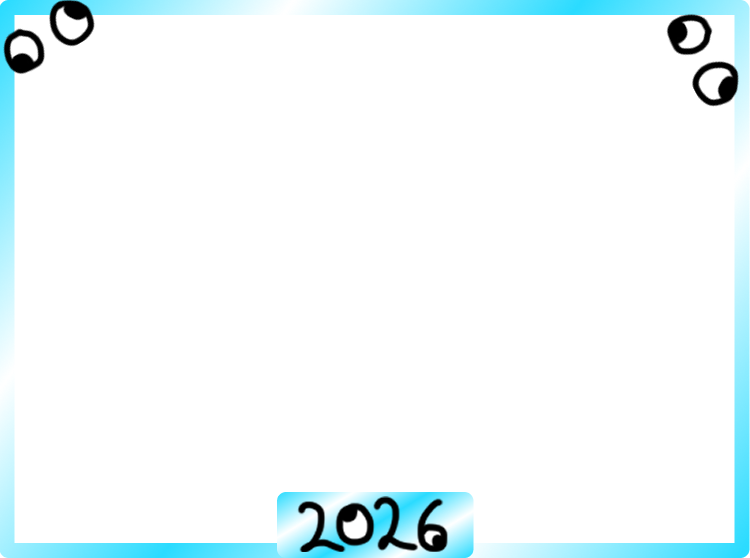
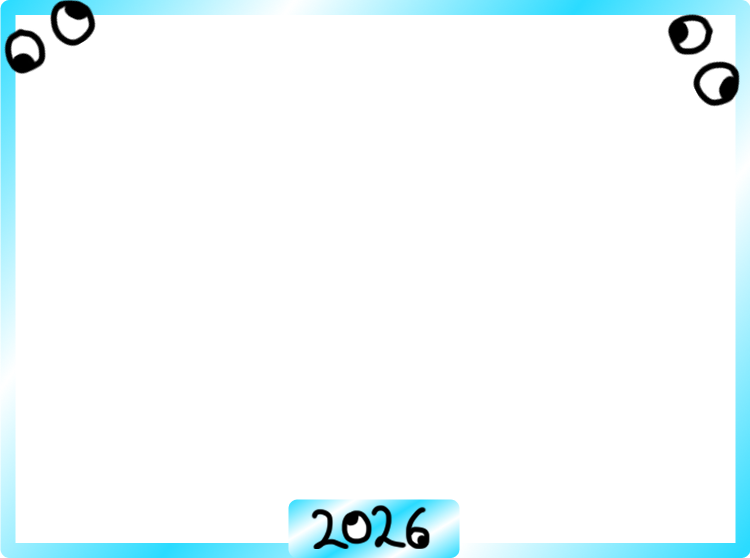
Fix to border and changed manual post for march

diff --git a/extra_commands/utils.py b/extra_commands/utils.py
@@ -403,47 +403,44 @@ async def manual_leaderboard_post(interaction: discord.Interaction):
     if channel is None:
         channel = await guild.fetch_channel(LEADERBOARD_HISTORY_CHANNEL_ID)
     users = {
-        "Kid_": 1634,
-        "Aidest": 1223,
-        "Paboloso": 1192,
-        "Fird": 1051,
-        "OG San": 856,
-        "dkj": 717,
-        "Juns": 600,
-        "Erza Scarlet143": 455,
-        "bookworm": 411,
-        "NEGGS": 375,
-        "Samishi": 275,
-        "iucy": 256,
-        "Muhr So": 193,
-        "Proxy": 193,
-        "notification": 156,
-        "ZPO": 142,
-        "roldz04": 110,
-        "Plana": 98,
-        "Solaxy": 93,
-        "Alvii": 93,
-        "Greed": 74,
-        "Galyxtria": 72,
-        "Vurn": 71,
-        "Shutaina": 69,
-        "Silence_Dead": 66,
+        "OG San": 1700,
+        "Aidest": 946,
+        "Paboloso": 763,
+        "Fird": 611,
+        "notification": 519,
+        "Kid_": 342,
+        "Z e ta": 287,
+        "Lil_girl0": 271,
+        "cyore": 256,
+        "Juns": 218,
+        "bookworm": 192,
+        "NEGGS": 132,
+        "dkj": 129,
+        "Veritus": 129,
+        "Proxy": 127,
     }
     medals = ["🥇", "🥈", "🥉"]
     lines = []
 
     for i, (display_name, points) in enumerate(users.items()):
         position = i + 1
+        guild = "💠 Oath"
+        if display_name == "Veritus":
+            guild = "On Gouache"
+        elif display_name == "NEGGS":
+            guild = "Vanaheim"
+        elif display_name == "cyore":
+            guild = "LunchBox"
 
         if i < 3:
             prefix = medals[i]
         else:
             prefix = f"`{position:02}`"
 
-        lines.append(f"{prefix} **{display_name}** — `{points}` points")
+        lines.append(f"{prefix} **{display_name}** `{guild}` — `{points}` points")
 
     embed = discord.Embed(
-        title="🏆 Leaderboard for February 2026 (Top 25)",
+        title="🏆 Leaderboard for March 2026 (Top 15)",
         description="\n".join(lines),
         color=discord.Color.gold(),
         timestamp=datetime.now(UTC),

diff --git a/testing.py b/testing.py
@@ -12,7 +12,6 @@ from extra_commands.wordle_share import generate_wordle_share
 from firebase_client import db, firestore
 from inventory.utils import add_item
 from request_utils import get_session
-from user_profile.computer_border_test import apply_computer_border
 from user_profile.image_test import generate_test_card
 from user_profile.utils import fetch_inventory
 from user_verification.utils import fetch_aqw_profile
